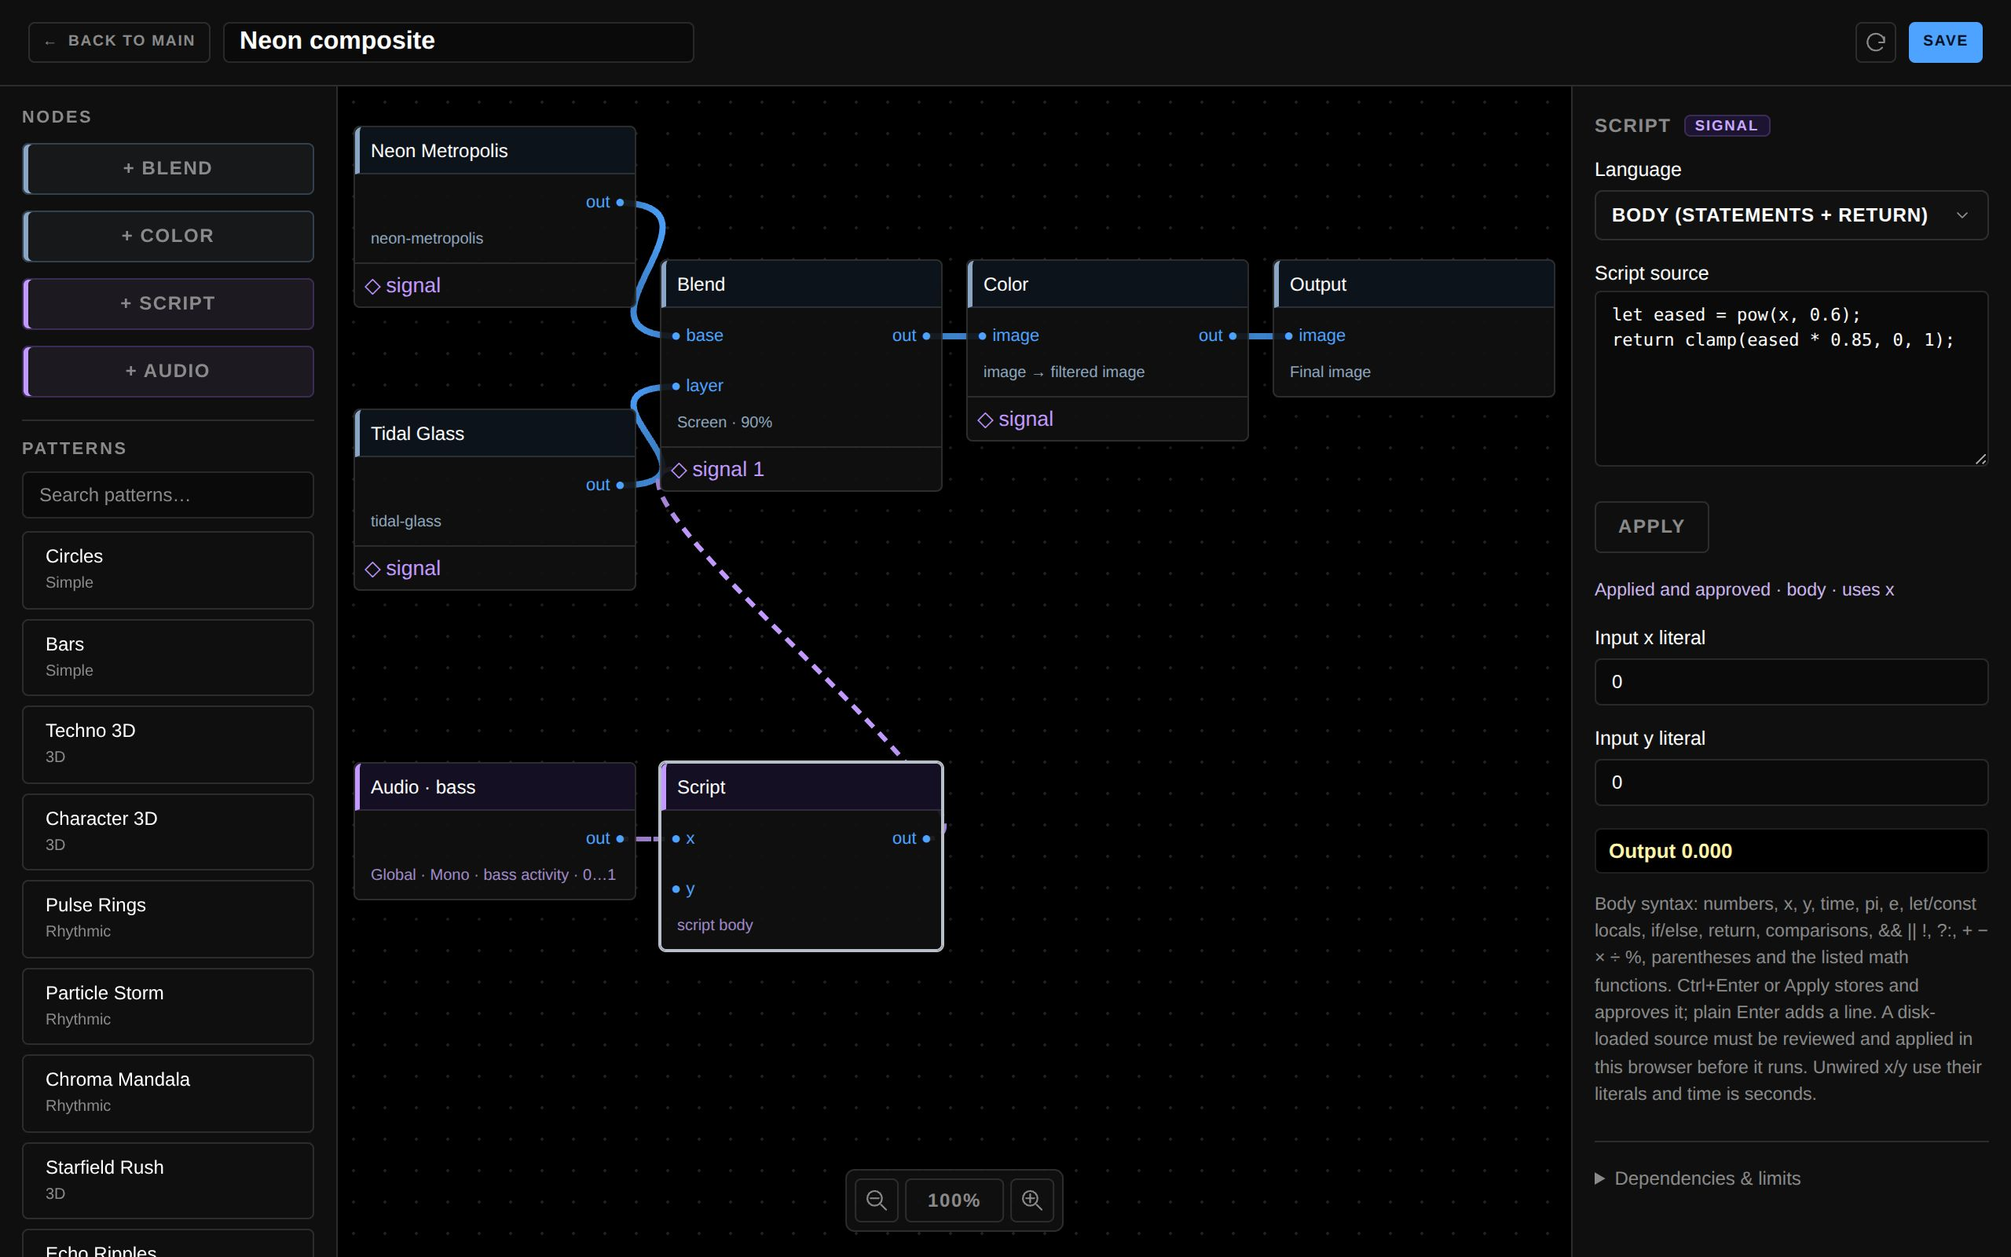
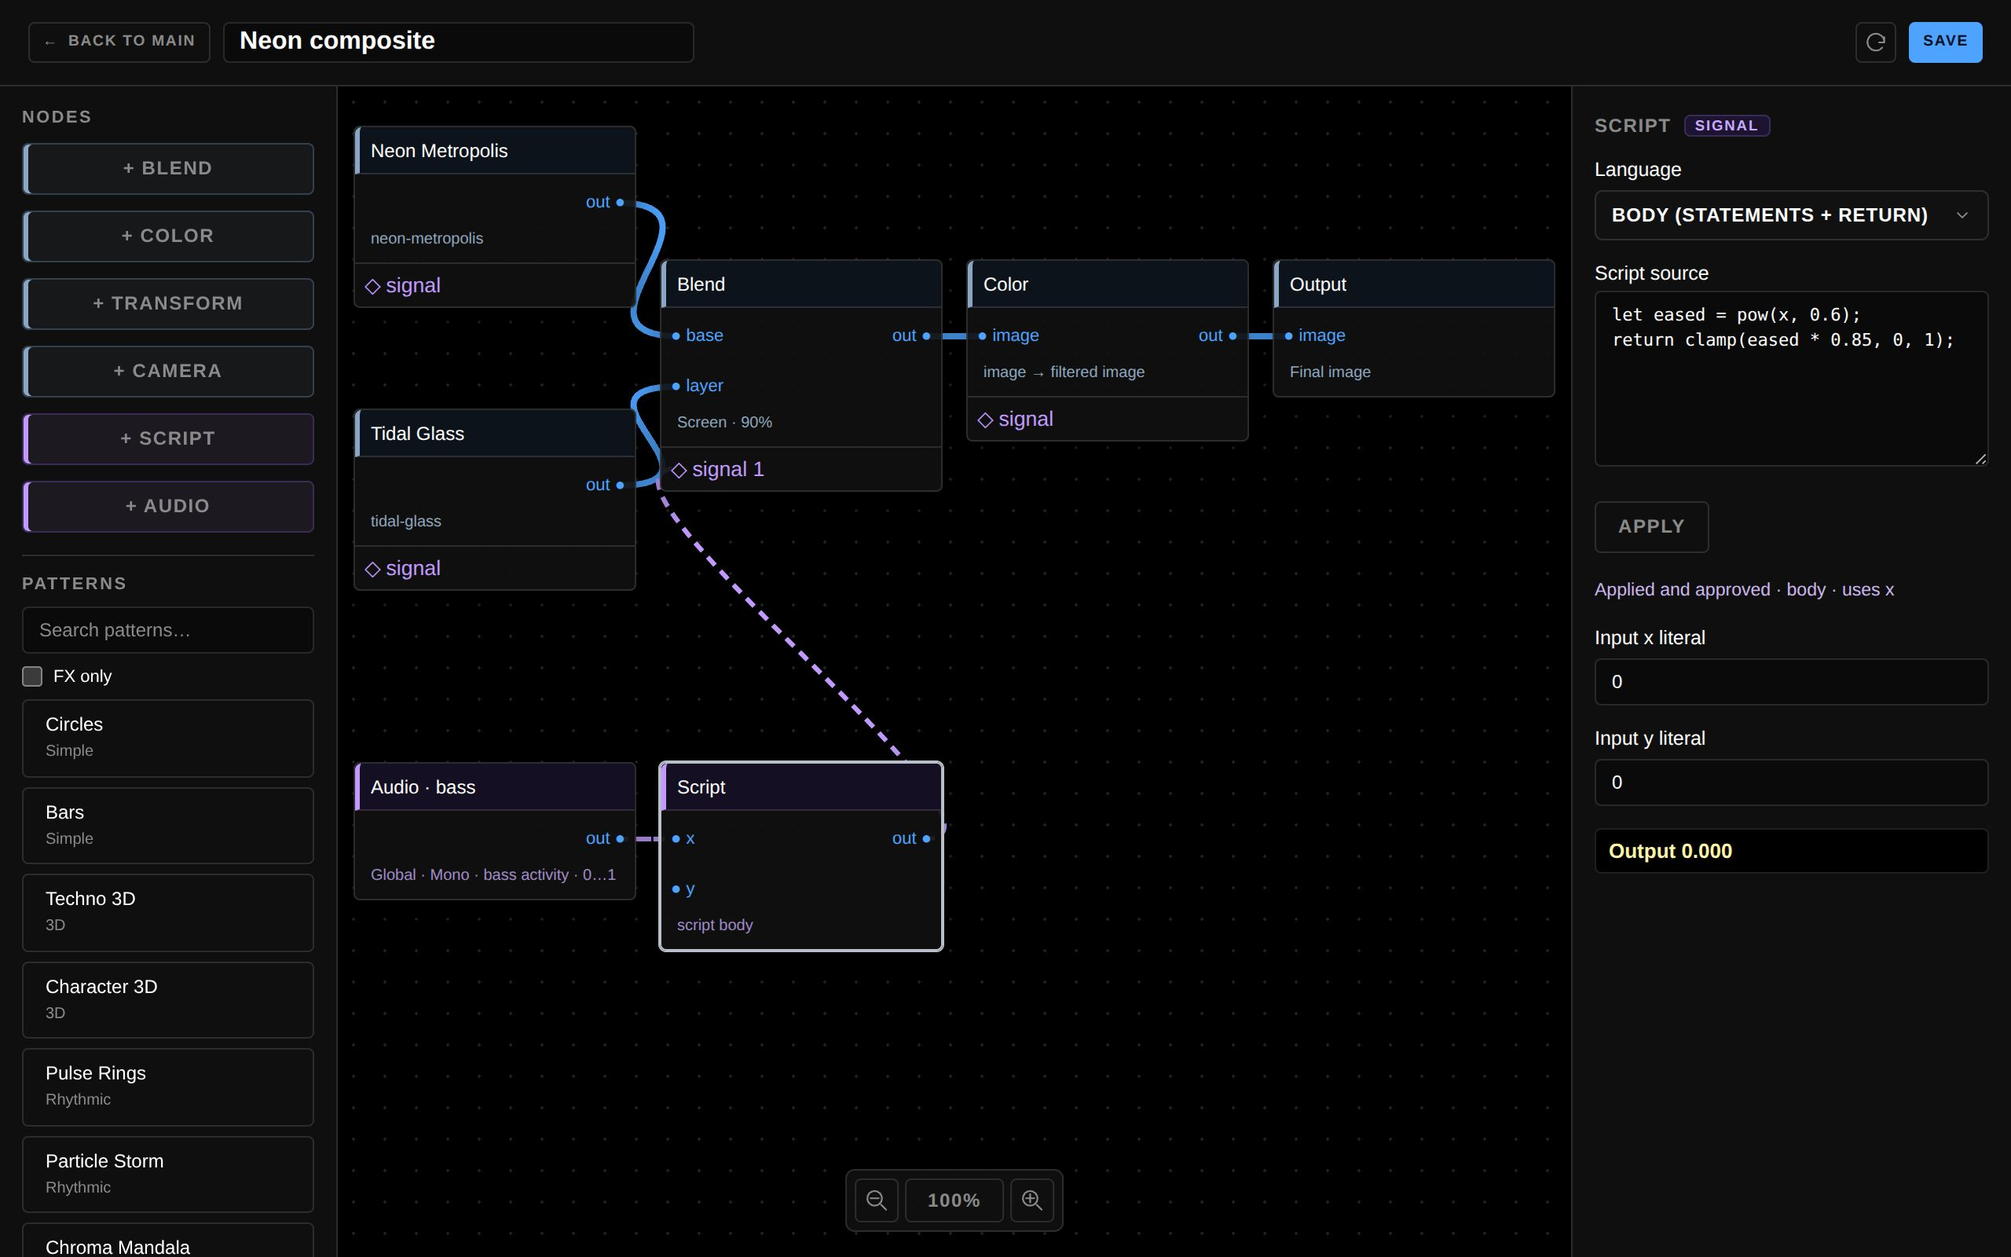
Remove too much details.

diff --git a/src/nodes/NodesEditor.jsx b/src/nodes/NodesEditor.jsx
@@ -658,20 +658,14 @@ export function NodesEditor({ graphId, sharedRuntime, onState, onSaved, onBack }
             <option value="mono">Mono</option>
           </Select></label>
           <AudioRouteStatus runtime={previewRuntime} nodeId={node.id} channelNote={channelNoteFor(node.id)} />
-          <SignalReadout runtime={previewRuntime} nodeId={node.id} />
-          <p>Normalized custom-script activity (0…1) from this node's own input route. Uses the control window's shared audio inputs; no input means zero. Mono combines both channels' activity; it does not phase-cancel stereo. Connect out to one or many ◇ signal endpoints.</p></>}
+          <SignalReadout runtime={previewRuntime} nodeId={node.id} /></>}
         {node?.type === 'camera' && <><label>Camera input device<Select aria-label="Camera input device" title="Global follows the Settings video input; a pinned entry requests that exact camera on the output screen" value={node.deviceId ?? ''} onChange={e => patch({ deviceId: e.target.value || null })}>
           <option value="">Global input (Settings){globalCameraLabel ? ` — ${globalCameraLabel}` : ''}</option>
           {cameraOptions.map((d, i) => <option key={d.deviceId} value={d.deviceId}>{d.label || `Camera input ${i + 1}`}</option>)}
           {node.deviceId && !cameraOptions.some(d => d.deviceId === node.deviceId) && <option value={node.deviceId}>{`Unavailable camera (…${node.deviceId.slice(-6)})`}</option>}
         </Select></label>
           <output className="nodes-camera-status" data-testid="node-camera-status" aria-live="polite">{cameraCatalog.error && `${cameraCatalog.error} `}{node.deviceId && !cameraOptions.some(d => d.deviceId === node.deviceId) ? 'Pinned camera unavailable; select another input or reconnect it. ' : ''}Editor preview shows a generated sample clip, not your real camera; live capture runs only on the output screen. Connect Camera out to an image input (FX, Blend, Color or Output). Global follows Settings; a pinned camera requests that exact device on the output screen.</output></>}
-        {node?.type === 'output' && <p>Output has no numeric controls. Image mapping is not supported here.</p>}
-        {node?.type === 'color' && <p>Color filters its image input in place: saturation → brightness → contrast → hue-rotate. Identity defaults (1 / 1 / 1 / 0) copy the input pixels unchanged; every numeric slider maps like Pattern and Blend. Without an image input it renders transparent, and it still saves.</p>}
-        {node?.type === 'transform' && <>
-          <p>Transform is the image node: Move, Scale and Rotate in X, Y and Z, with true perspective. The picture is a unit plane half a frame in front of the camera, so Move X/Y of 1 shifts it by half the frame, Move Z of +0.5 doubles it, and Rotate X/Y tilt it into a real trapezoid instead of a squashed rectangle. All nine sliders default to identity, which copies the input pixels exactly, and they map like Pattern, Blend and Color sliders. Rotation happens in the frame's own space, so a non-square output frame stretches a rotated picture. Scale Z squashes the depth axis after rotation: it bends the perspective of a tilted picture and does nothing on a flat, unrotated one. Without an image input it renders transparent, and it still saves.</p>
-          <output className="nodes-transform-status" data-testid="node-transform-status" aria-live="polite">{transformNote(node.params)}</output>
-        </>}
+        {node?.type === 'transform' && <output className="nodes-transform-status" data-testid="node-transform-status" aria-live="polite">{transformNote(node.params)}</output>}
         {node?.type === 'math' && <><label>Operation<Select aria-label="Math operation" title="Choose the scalar operation" value={node.op} onChange={e => changeMathOp(e.target.value)}>{MATH_OPS.map(op => <option key={op} value={op}>{MATH_LABELS[op]}</option>)}</Select></label>
           {MATH_INPUTS.map(port => {
             // Value C exists only for clamp. Outside clamp the row is hidden and
@@ -679,8 +673,7 @@ export function NodesEditor({ graphId, sharedRuntime, onState, onSaved, onBack }
             const active = mathPorts(node.op).includes(port);
             return <label key={port} hidden={!active}>{MATH_PORT_LABELS[port]} literal<input className="control-input" type="number" step="0.01" disabled={!active} aria-label={`Math ${port} literal`} title={active ? `Literal used when ${port} has no wire` : `${MATH_PORT_LABELS[port]} is only used by clamp`} value={node[port]} onChange={e => { const next = e.target.valueAsNumber; if (Number.isFinite(next)) patch({ [port]: next }); }} /></label>;
           })}
-          <SignalReadout runtime={previewRuntime} nodeId={node.id} />
-          <p>Scalar inputs stay signed floats — nothing is normalized here. Each port takes a wire from an Audio/Math/Script output, otherwise its literal applies. {node.op === 'clamp' ? 'Clamp keeps a between the sorted b/c bounds. ' : 'Value C and its wire exist only for clamp. '}Wires carry values, not pictures.</p></>}
+          <SignalReadout runtime={previewRuntime} nodeId={node.id} /></>}
         {node?.type === 'script' && <><label>Language<Select aria-label="Script language" title="Expression is the original single-value language; Body is a compiled statement list with return" value={scriptLanguage} onChange={e => setScriptDraft({ id: node.id, language: e.target.value, text: scriptText })}>
           {['body', 'expression'].map(value => <option key={value} value={value}>{scriptLanguageLabel(value)}</option>)}
         </Select></label>
@@ -689,19 +682,15 @@ export function NodesEditor({ graphId, sharedRuntime, onState, onSaved, onBack }
           {!scriptCheck?.ok && <p className="nodes-script-error" role="alert">Script: {scriptCheck?.error}</p>}
           <p className="nodes-script-status" role="status" data-testid="script-status">{!scriptCheck?.ok ? 'Not applied' : `${scriptApplied ? (isScriptApproved(nodeLanguage, node.source) ? 'Applied and approved' : 'Applied · review required to run') : 'Not applied'} · ${scriptLanguage} · uses ${SCRIPT_VARIABLES.filter(name => scriptCheck.uses?.[name]).join(', ') || 'no inputs'}`}</p>
           {SCRIPT_INPUTS.map(port => <label key={port}>{SCRIPT_PORT_LABELS[port]} literal<input className="control-input" type="number" step="0.01" aria-label={`Script ${port} literal`} title={`Literal used when ${port} has no wire`} value={node[SCRIPT_LITERAL_FIELDS[port]]} onChange={e => { const next = e.target.valueAsNumber; if (Number.isFinite(next)) patch({ [SCRIPT_LITERAL_FIELDS[port]]: next }); }} /></label>)}
-          <SignalReadout runtime={previewRuntime} nodeId={node.id} />
-          <p>{helpForLanguage(scriptLanguage)} Ctrl+Enter or Apply stores and approves it; plain Enter adds a line. A disk-loaded source must be reviewed and applied in this browser before it runs. Unwired x/y use their literals and time is seconds.</p></>}
+          <SignalReadout runtime={previewRuntime} nodeId={node.id} /></>}
         {node?.type === 'blend' && <><label>Blend mode<Select aria-label="Blend mode" title="Choose the pixel blend operation (TouchDesigner's Composite TOP list)" value={node.mode} onChange={e => patch({ mode: e.target.value })}>
           <optgroup label="Canvas blend modes">{MODE_NAMES.filter(mode => !isExtendedMode(mode)).map(mode => <option key={mode}>{mode}</option>)}</optgroup>
           <optgroup label="WebGL2 blend modes">{MODE_NAMES.filter(isExtendedMode).map(mode => <option key={mode}>{mode}</option>)}</optgroup>
         </Select></label>
-          <output className="nodes-blend-status" data-testid="node-blend-status" aria-live="polite">{blendModeNote(node.mode)}</output>
-          <p>Base is the first input and layer the second, so the ordered modes (Under, Inside, Outside, Subtract, Divide) change meaning when the wires swap. Opacity scales the layer only. Canvas modes are exact 2D-canvas operations; WebGL2 modes follow the same alpha rules but need a GPU. TouchDesigner operations with no published formula are not offered: inverse, subtractive, chroma/luminance difference, inside/outside/stencil luminance, y film, z film.</p></>}
+          <output className="nodes-blend-status" data-testid="node-blend-status" aria-live="polite">{blendModeNote(node.mode)}</output></>}
         {node?.type === 'pattern' && visibleInputs(node).includes('image') && <div className="nodes-pattern-image-status">
-          <p>{sketch?.camera ? 'Camera' : 'Source'} by default; connect image for FX.</p>
           <output data-testid="node-image-input-status" aria-live="polite">Image input: {imageWired(node.id) ? 'wired' : `not connected (${sourceDefault(sketch).toLowerCase()})`}</output>
           {!acceptsImage(sketch) && <p className="nodes-fx-warning" role="status">FX capability unavailable. Restore an FX-capable version of this pattern; the existing image wire is retained for repair.</p>}
-          {acceptsImage(sketch) && (sketch.camera ? <p>Editor preview uses a generated sample clip, not a real camera.</p> : <p>Unconnected editor preview uses this pattern's own source, not camera capture.</p>)}
         </div>}
         {node?.type === 'pattern' && !sketch && <p>Missing pattern. Delete and replace this node, or restore its dependency.</p>}
         {signalNode && (graph.modulations || []).some(m => m.to === signalNode.id) && <section className="nodes-signals" aria-label="Connected signals"><h2>Connected signals</h2>
@@ -721,7 +710,6 @@ export function NodesEditor({ graphId, sharedRuntime, onState, onSaved, onBack }
             connection button, owns connection removal, and Delete/Backspace on a
             node selection owns node removal. The inspector carries no destructive
             buttons of its own. */}
-        <details><summary>Dependencies & limits</summary><p>No node, Pattern source or wire budget is imposed: practical graph size follows your hardware. 1280×720 internal image, no recursive graphs, camera capture stays on output, and local files or custom assets are not embedded. A pattern file stays under 200 KB so it remains loadable.</p>{dependencies.map(d => <p key={d.id}>{d.name || d.id} · {d.kind}</p>)}<button className="btn" title="Refresh dependency fingerprints from available patterns" onClick={() => attempt(() => { setDraft({ ...draft, dependencies: manifestFor(graph, SKETCHES) }); setMessage('Dependency manifest refreshed explicitly. Save when ready.'); })}>Refresh dependencies</button></details>
       </aside>
     </div>
   </main>;

diff --git a/tests/nodes-camera-fx-editor.spec.js b/tests/nodes-camera-fx-editor.spec.js
@@ -133,7 +133,7 @@ test('FX-only filter intersects search, includes live script descriptors, but of
   await expect(kaleido).toHaveCount(1);
 });
 
-test('FX-capable custom script without camera uses Source default, not camera sample messaging', async ({ page }) => {
+test('FX-capable custom script without camera reports Source default and inspector status only', async ({ page }) => {
   await openFixture(page);
   await page.evaluate(async () => {
     const { SKETCHES } = await import('/src/sketch-registry.js');
@@ -148,9 +148,9 @@ test('FX-capable custom script without camera uses Source default, not camera sa
   await expect(card.locator('.nodes-input')).toHaveCount(1);
   await expect(card.locator('.nodes-node-detail')).toContainText('Source default');
   await expect(page.getByTestId('node-image-input-status')).toHaveText('Image input: not connected (source default)');
-  await expect(page.getByText('Source by default; connect image for FX.')).toBeVisible();
-  await expect(page.getByText("Unconnected editor preview uses this pattern's own source, not camera capture.")).toBeVisible();
-  await expect(page.getByText('Editor preview uses a generated sample clip, not a real camera.')).toHaveCount(0);
+  // The inspector keeps status only: the removed description and preview-hint
+  // paragraphs must not come back.
+  await expect(page.locator('.nodes-pattern-image-status p')).toHaveCount(0);
 });
 
 test('drag-to-add has an optional image socket; connect/disconnect automatically toggles camera default and FX', async ({ page }) => {
@@ -159,7 +159,6 @@ test('drag-to-add has an optional image socket; connect/disconnect automatically
   await expect(card.locator('.nodes-fx-badge')).toContainText('◇ FX');
   await expect(card.locator('.nodes-node-title')).toHaveAccessibleDescription(/Accepts an image input/);
   await expect(card.getByRole('button', { name: `${id} input image` })).toBeVisible();
-  await expect(page.getByText('Camera by default; connect image for FX.')).toBeVisible();
   await expect(page.getByTestId('node-image-input-status')).toHaveText('Image input: not connected (camera default)');
   await expect(card.locator('.nodes-node-detail')).toContainText('Camera default');
   await expect(page.getByLabel('Pattern input mode')).toHaveCount(0);

diff --git a/tests/nodes.spec.js b/tests/nodes.spec.js
@@ -172,7 +172,7 @@ test('missing dependencies and camera preview are visible and never acquire capt
   const cameraGraph = graph(); cameraGraph.nodes[0].patternId = 'video-chroma'; cameraGraph.nodes[0].params = {};
   await openFixture(page, cameraGraph);
   await page.locator('[data-node-id=red] .nodes-node-title').click();
-  await expect(page.getByText('Editor preview uses a generated sample clip, not a real camera.')).toBeVisible();
+  await expect(page.getByTestId('node-image-input-status')).toHaveText('Image input: not connected (camera default)');
   await expect(page.locator('.nodes-diagnostics')).toBeEmpty();
   await expect.poll(() => page.getByTestId('node-preview').evaluate(c => {
     const data = c.getContext('2d').getImageData(0, 0, c.width, c.height).data;
@@ -200,9 +200,9 @@ test('dependency manifests follow the graph: stale entries prune, stored fingerp
   expect(sourceDiagnostics(graph, sketches, [stored, stale])).toEqual(['Missing dependency: Ghost script']);
   expect(pruneManifest(graph, sketches, [stored, stale])).toEqual([stored]);
   // A still-referenced entry keeps the fingerprint loaded from disk, so a source
-  // changed outside the editor is still reported until an explicit refresh.
+  // changed outside the editor is still reported until its node is re-added.
   const changed = [{ ...sketches[0], params: [] }];
-  expect(sourceDiagnostics(graph, changed, pruneManifest(graph, sketches, [stored]))).toEqual(['Changed dependency: Solid Color; restore it or explicitly refresh dependencies']);
+  expect(sourceDiagnostics(graph, changed, pruneManifest(graph, sketches, [stored]))).toEqual(['Changed dependency: Solid Color; restore the source or delete and re-add this pattern node']);
   // A newly referenced source is added with its current fingerprint.
   expect(pruneManifest(graph, sketches, [])).toEqual([stored]);
   // Projection surfaces count as consumed dependencies too.

diff --git a/src/nodes/portability.js b/src/nodes/portability.js
@@ -51,8 +51,8 @@ export function referencedIds(graph, sketches) {
 // a stale entry (a removed or changed custom script, say) blocks Save forever,
 // even after the node that used it is gone — while the stored fingerprints of
 // surviving entries are preserved: "changed dependency" detection must stay
-// until an explicit Refresh dependencies, so a signature is only ever derived
-// fresh for an id the manifest does not know yet.
+// until the node that consumes it is deleted and re-added, so a signature is
+// only ever derived fresh for an id the manifest does not know yet.
 export function pruneManifest(graph, sketches, manifest = []) {
   const required = referencedIds(graph, sketches);
   const kept = manifest.filter(d => required.has(d.id)).map(d => ({ ...d }));
@@ -101,7 +101,7 @@ export function graphDiagnostics(graph, sketches, manifest = []) {
   for (const dep of manifest) {
     const s = sketches.find(s => s.id === dep.id);
     const message = !s ? `Missing dependency: ${dep.name || dep.id}`
-      : dep.signature && dep.signature !== dependencySignature(s) ? `Changed dependency: ${dep.name || dep.id}; restore it or explicitly refresh dependencies` : null;
+      : dep.signature && dep.signature !== dependencySignature(s) ? `Changed dependency: ${dep.name || dep.id}; restore the source or delete and re-add this pattern node` : null;
     if (!message) continue;
     // Attribute the message to every node that still consumes this source; a
     // manifest entry no node references has no owner and stays a graph-level note.

diff --git a/tests/nodes-blend-transform.spec.js b/tests/nodes-blend-transform.spec.js
@@ -289,6 +289,10 @@ test('the blend inspector lists both mode groups and an extended mode renders en
   await expect(page.locator('optgroup[label="Canvas blend modes"] option')).toHaveCount(Object.keys(NATIVE_MODES).length);
   await expect(page.locator('optgroup[label="WebGL2 blend modes"] option')).toHaveCount(Object.keys(EXTENDED_MODES).length);
   await expect(page.getByTestId('node-blend-status')).toContainText('canvas blend operation');
+  // The inspector is controls, live status and warnings only: the node-description
+  // prose and the dependency details panel stay removed.
+  await expect(page.locator('.nodes-inspector > p')).toHaveCount(0);
+  await expect(page.locator('.nodes-inspector details')).toHaveCount(0);
   await page.getByLabel('Blend mode').selectOption('Screen');
   await expect.poll(() => pixel(page)).toEqual([255, 255, 0, 255]);
   // Shader modes composite the same graph through the shared WebGL2 compositor.

diff --git a/tests/nodes-internal.spec.js b/tests/nodes-internal.spec.js
@@ -243,7 +243,7 @@ test('internal video uses the existing media store; camera FX previews a generat
   const camera = graph(); camera.nodes[0].patternId = 'video-chroma'; camera.nodes[0].params = {};
   await seed(page, camera); await openFile(page);
   await editor(page).locator('[data-node-id=color] .nodes-node-title').click();
-  await expect(editor(page).getByText('Editor preview uses a generated sample clip, not a real camera.')).toBeVisible();
+  await expect(editor(page).getByTestId('node-image-input-status')).toHaveText('Image input: not connected (camera default)');
   await expect(editor(page).locator('.nodes-diagnostics')).toBeEmpty();
   await expect.poll(() => editor(page).getByTestId('node-preview').evaluate(c => {
     const data = c.getContext('2d').getImageData(0, 0, c.width, c.height).data;

diff --git a/src/nodes/nodes.css b/src/nodes/nodes.css
@@ -84,8 +84,6 @@
 .nodes-inspector label input,.nodes-inspector label select { display:block; width:100%; margin-top:6px; }
 .nodes-inspector output { float:right; }
 .nodes-inspector > .btn { margin:5px 5px 5px 0; }
-.nodes-inspector details { margin-top:20px; padding-top:16px; border-top:1px solid var(--border-gray); }
-.nodes-inspector summary { cursor:pointer; color:var(--text-dim); font-size:.75rem; }
 .nodes-diagnostics p { color:#ff6b6b; }
 /* A failed Save/Reload is the one editor failure that must be readable on screen. */
 .nodes-toolbar .nodes-disk-error { flex-basis:100%; margin:0; color:#ffb5a4; font-size:12px; overflow-wrap:anywhere; }
